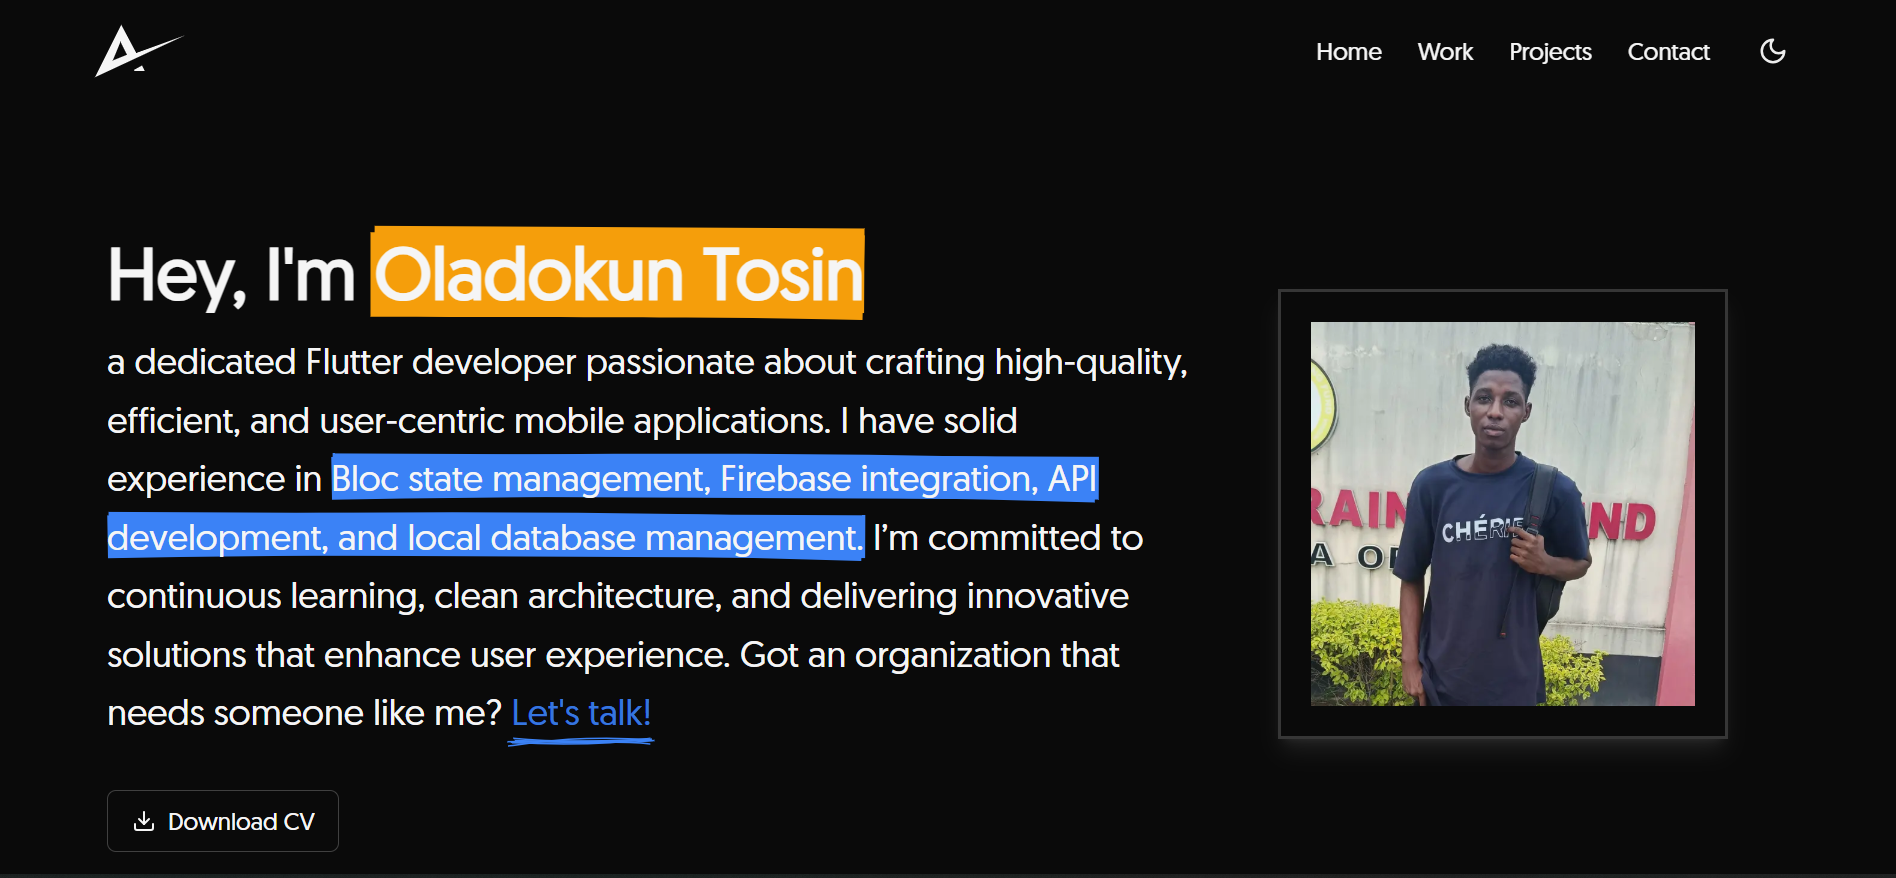
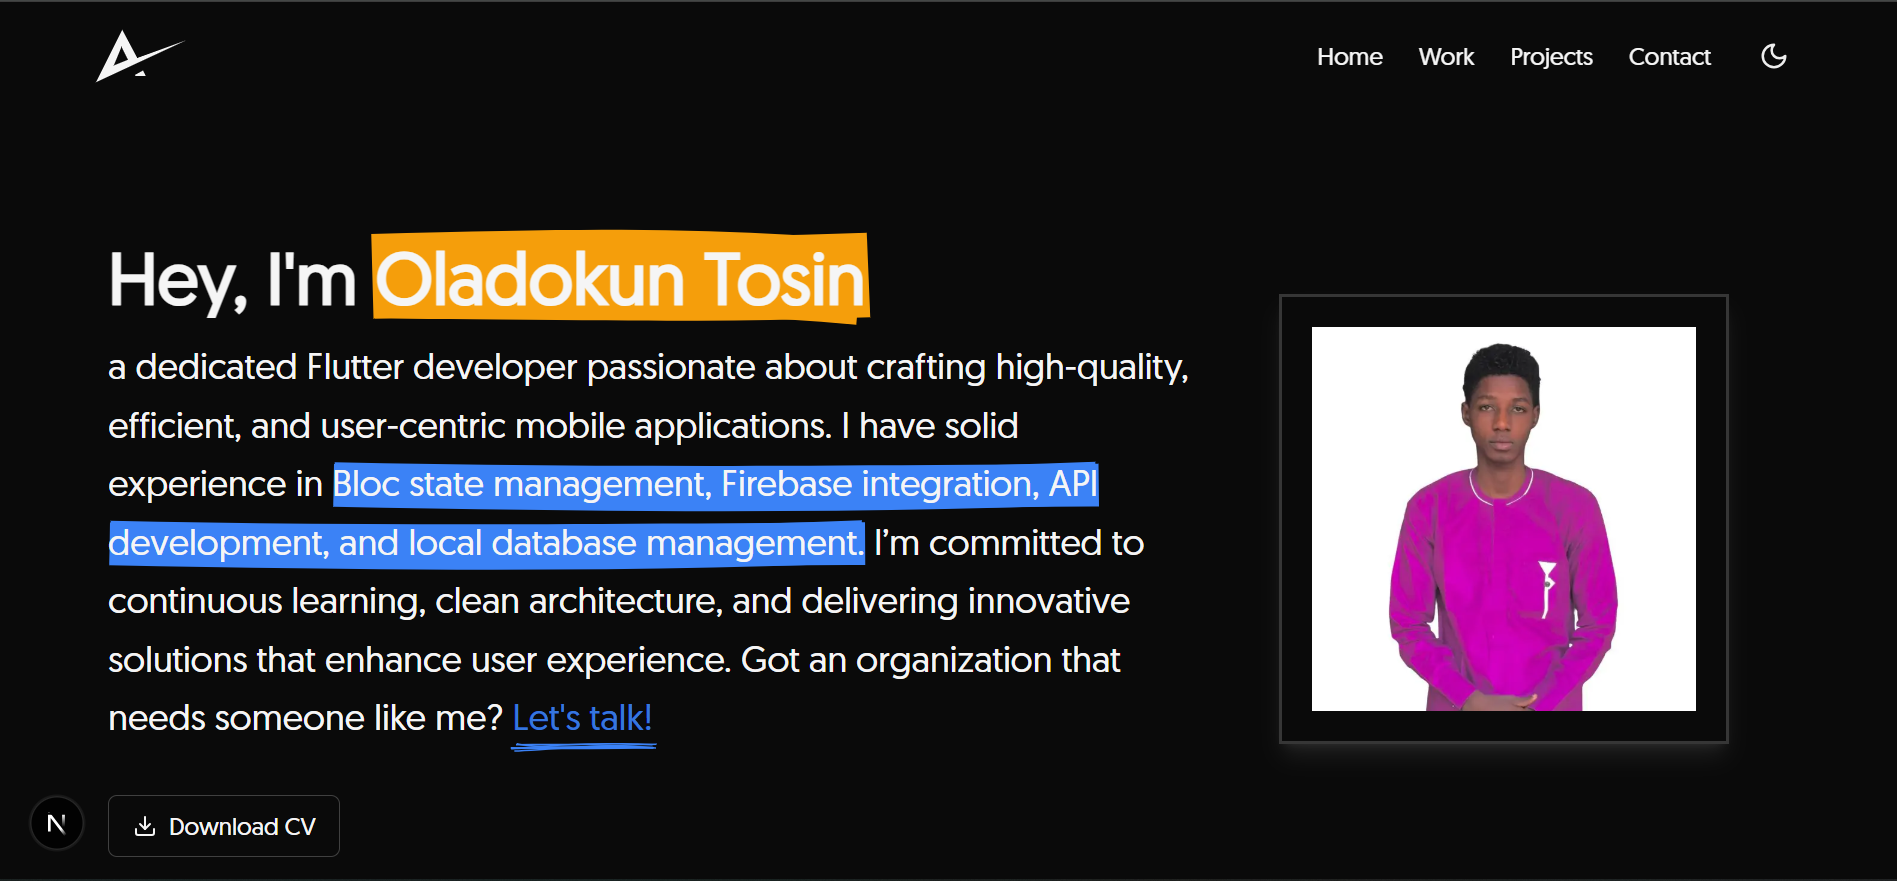
chore: updated picture

diff --git a/src/components/Hero.tsx b/src/components/Hero.tsx
@@ -91,7 +91,7 @@ export const Hero: FC = () => {
       </div>
 
       <Image
-        src="/picture.jpg"
+        src="/pic-tosin.jpg"
         alt={personalData.name}
         width={300}
         height={300}
